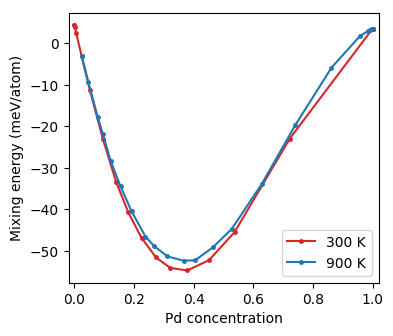
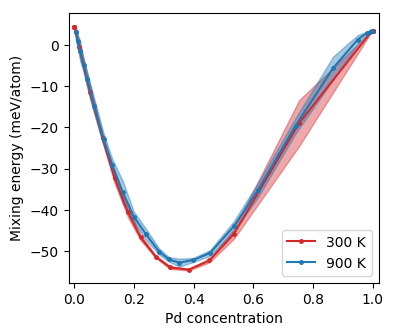
Merge branch '267-provide-data-analysis-helper-functions' of gitlab.com:materials-modeling/icet into 267-provide-data-analysis-helper-functions

diff --git a/mchammer/data_container.py b/mchammer/data_container.py
@@ -14,6 +14,7 @@ from collections import OrderedDict
 from datetime import datetime
 from typing import BinaryIO, Dict, List, TextIO, Tuple, Union
 from icet import __version__ as icet_version
+from .data_analysis import analyze_data
 from .observers.base_observer import BaseObserver
 
 
@@ -329,6 +330,55 @@ class DataContainer:
                                  ' in data container'.format(tag))
             return data[tag].count()
 
+    def analyze_data(self, tag: str, start: int = None,
+                     stop: int = None, max_lag: int = None) -> dict:
+        """
+        Returns detailed analysis of a scalar observerable.
+
+        Parameters
+        ----------
+        tag
+            tag of field over which to average
+        start
+            minimum value of trial step to consider; by default the
+            smallest value in the mctrial column will be used.
+        stop
+            maximum value of trial step to consider; by default the
+            largest value in the mctrial column will be used.
+        max_lag
+            maximum lag between two points in data series, by default the
+            largest length of the data series will be used.
+            Used for computing autocorrelation
+        Raises
+        ------
+        ValueError
+            if observable is requested that is not in data container
+        ValueError
+            if observable is not scalar
+        ValueError
+            if observations is not evenly spaced
+
+        Returns
+        -------
+        dict
+            calculated properties of the data including mean,
+            standard_deviation, correlation_length and error_estimate
+            (95% confidence)
+        """
+        if tag in ['trajectory', 'occupations']:
+            raise ValueError('{} is not scalar'.format(tag))
+        steps, data = self.get_data('mctrial', tag, start=start, stop=stop)
+
+        # check that steps are evenly spaced
+        diff = np.diff(steps)
+        step_length = diff[0]
+        if not np.allclose(step_length, diff):
+            raise ValueError('data records must be evenly spaced.')
+
+        summary = analyze_data(data)
+        summary['correlation_length'] *= step_length  # in mc-trials
+        return summary
+
     def get_average(self, tag: str,
                     start: int = None, stop: int = None) -> float:
         """
@@ -356,35 +406,6 @@ class DataContainer:
             raise ValueError('{} is not scalar'.format(tag))
         data = self.get_data(tag, start=start, stop=stop)
         return np.mean(data)
-
-    def get_standard_deviation(self, tag: str, start: int = None,
-                               stop: int = None) -> float:
-        """
-        Returns standard deviation of a scalar observable, calculated using
-        numpy.
-
-        Parameters
-        ----------
-        tag
-            tag of field over which to average
-        start
-            minimum value of trial step to consider; by default the
-            smallest value in the mctrial column will be used.
-        stop
-            maximum value of trial step to consider; by default the
-            largest value in the mctrial column will be used.
-
-        Raises
-        ------
-        ValueError
-            if observable is requested that is not in data container
-        ValueError
-            if observable is not scalar
-        """
-        if tag in ['trajectory', 'occupations']:
-            raise ValueError('{} is not scalar'.format(tag))
-        data = self.get_data(tag, start=start, stop=stop)
-        return np.std(data)
 
     def _get_trajectory(self, *tags, start: int = None, stop: int = None,
                         interval: int = 1) \

diff --git a/mchammer/data_analysis.py b/mchammer/data_analysis.py
@@ -1,0 +1,117 @@
+import pandas as pd
+import numpy as np
+import scipy
+
+
+def analyze_data(data: np.ndarray, max_lag: int = None) -> dict:
+    """ Carries out an extensive analysis of the data series.
+
+    Parameters
+    ----------
+    data
+        data series to compute autocorrelation function for
+    max_lag
+        maximum lag between two data points, used for computing autocorrelation
+
+    Returns
+    -------
+    dict
+        calculated properties of the data including, mean, standard deviation,
+        correlation length and a 95% error estimate.
+    """
+    acf = get_autocorrelation_function(data, max_lag)
+    correlation_length = _estimate_correlation_length_from_acf(acf)
+    error_estimate = _estimate_error(data, correlation_length, confidence=0.95)
+    summary = dict(mean=data.mean(),
+                   std=data.std(),
+                   correlation_length=correlation_length,
+                   error_estimate=error_estimate)
+    return summary
+
+
+def get_autocorrelation_function(data: np.ndarray,
+                                 max_lag: int = None) -> np.ndarray:
+    """ Returns autocorrelation function.
+
+    The autocorrelation function is computed using Pandas.Series.autocorr
+
+    Parameters
+    ----------
+    data
+        data series to compute autocorrelation function for
+    max_lag
+        maximum lag between two data points
+
+    Returns
+    -------
+        calculated autocorrelation function
+    """
+    if max_lag is None:
+        max_lag = len(data) - 1
+    if 1 > max_lag >= len(data):
+        raise ValueError('max_lag should be between 1 and len(data)-1.')
+    series = pd.Series(data)
+    acf = [series.autocorr(lag) for lag in range(0, max_lag)]
+    return np.array(acf)
+
+
+def get_correlation_length(data: np.ndarray) -> int:
+    """ Returns estimate of the correlation length of data.
+
+    The correlation length is taken as the first point where the
+    autocorrelation functions is less than exp(-2).
+
+    If correlation function never goes below exp(-2) then np.nan is returned
+
+    Parameters
+    ----------
+    data
+        data series to compute autocorrelation function for
+
+    Returns
+    -------
+        correlation length
+    """
+
+    acf = get_autocorrelation_function(data)
+    correlation_length = _estimate_correlation_length_from_acf(acf)
+    return correlation_length
+
+
+def get_error_estimate(data: np.ndarray, confidence: float = 0.95) -> float:
+    """ Returns estimate of standard error with confidence interval.
+
+    error = t_factor * std(data) / sqrt(Ns)
+    where t_factor is the factor corresponding to the confidence interval
+    Ns is the number of independent measurements (with correlation taken
+    into account)
+
+    Parameters
+    ----------
+    data
+        data series to to estimate error for
+
+    Returns
+    -------
+        error estimate
+    """
+    correlation_length = get_correlation_length(data)
+    error_estimate = _estimate_error(data, correlation_length, confidence)
+    return error_estimate
+
+
+def _estimate_correlation_length_from_acf(acf: np.ndarray) -> int:
+    """ Estimate correlation length from acf """
+    lengths = np.where(acf < np.exp(-2))[0]  # ACF < exp(-2)
+    if len(lengths) == 0:
+        return np.nan
+    else:
+        return lengths[0]
+
+
+def _estimate_error(data: np.ndarray, correlation_length: int,
+                    confidence: float) -> float:
+    """ Estimate error using correlation length"""
+    t_factor = scipy.stats.t.ppf((1 + confidence) / 2, len(data)-1)
+    error = t_factor * np.std(data) / np.sqrt(len(data) / correlation_length)
+    return error

diff --git a/tests/unittest/test_mchammer/test_data_container.py b/tests/unittest/test_mchammer/test_data_container.py
@@ -300,6 +300,28 @@ class TestDataContainer(unittest.TestCase):
         self.assertTrue('No observable named xyz'
                         in str(context.exception))
 
+    def test_analyze_data(self):
+        """Tests analyze_data functionality."""
+
+        # set up a random list of values with a normal distribution
+        n_iter, mu, sigma = 100, 1.0, 0.1
+        np.random.seed(12)
+        for mctrial in range(n_iter):
+            row = {'obs1': np.random.normal(mu, sigma), 'obs2': 4.0}
+            self.dc.append(mctrial, record=row)
+
+        # check obs1
+        summary1 = self.dc.analyze_data('obs1')
+        mean1 = self.dc.get_data('obs1').mean()
+        std1 = self.dc.get_data('obs1').std()
+        self.assertEqual(summary1['mean'], mean1)
+        self.assertEqual(summary1['std'], std1)
+        self.assertEqual(summary1['correlation_length'], 1)
+
+        # check obs2
+        summary2 = self.dc.analyze_data('obs2')
+        self.assertTrue(np.isnan(summary2['correlation_length']))
+
     def test_get_average_and_standard_deviation(self):
         """Tests get average functionality."""
         # set up a random list of values with a normal distribution
@@ -313,25 +335,17 @@ class TestDataContainer(unittest.TestCase):
 
         # get average over all mctrials
         mean = self.dc.get_average('obs1')
-        std = self.dc.get_standard_deviation('obs1')
         self.assertAlmostEqual(mean, 0.9855693, places=7)
-        self.assertAlmostEqual(std, 0.1045950, places=7)
 
         # get average over slice of data
         mean = self.dc.get_average('obs1', start=60)
-        std = self.dc.get_standard_deviation('obs1', start=60)
         self.assertAlmostEqual(mean, 0.9851106, places=7)
-        self.assertAlmostEqual(std, 0.0981344, places=7)
 
         mean = self.dc.get_average('obs1', stop=60)
-        std = self.dc.get_standard_deviation('obs1', stop=60)
         self.assertAlmostEqual(mean, 0.9876534, places=7)
-        self.assertAlmostEqual(std, 0.1086700, places=7)
 
         mean = self.dc.get_average('obs1', start=40, stop=60)
-        std = self.dc.get_standard_deviation('obs1', start=40, stop=60)
         self.assertAlmostEqual(mean, 1.0137074, places=7)
-        self.assertAlmostEqual(std, 0.1124826, places=7)
 
         # test fails for non-existing data
         with self.assertRaises(ValueError) as context:

diff --git a/tutorial/basic/6_collect_monte_carlo_data.py b/tutorial/basic/6_collect_monte_carlo_data.py
@@ -12,10 +12,15 @@ for ensemble in ['sgc', 'vcsgc']:
         n_atoms = data_row['n_atoms']
 
         equilibration = 5 * n_atoms
-        data_row['Pd_concentration'] = \
-            dc.get_average('Pd_count', start=equilibration) / n_atoms
-        data_row['mixing_energy'] = \
-            dc.get_average('potential', start=equilibration) / n_atoms
+
+        stats = dc.analyze_data('Pd_count', start=equilibration)
+        data_row['Pd_concentration'] = stats['mean'] / n_atoms
+        data_row['Pd_concentration_error'] = stats['error_estimate'] / n_atoms
+
+        stats = dc.analyze_data('potential', start=equilibration)
+        data_row['mixing_energy'] = stats['mean'] / n_atoms
+        data_row['mixing_energy_error'] = stats['error_estimate'] / n_atoms
+
         data_row['acceptance_ratio'] = \
             dc.get_average('acceptance_ratio', start=equilibration)
         if ensemble == 'sgc':

diff --git a/tutorial/basic/7_plot_monte_carlo_data.py b/tutorial/basic/7_plot_monte_carlo_data.py
@@ -34,9 +34,15 @@ df = dfs['sgc']
 fig, ax = plt.subplots(figsize=(4, 3.5))
 for T in sorted(df.temperature.unique()):
     df_T = df.loc[df['temperature'] == T].sort_values('Pd_concentration')
-    ax.plot(df_T['Pd_concentration'], 1e3 * df_T['mixing_energy'],
+    e_mix = 1e3 * df_T['mixing_energy']
+    e_mix_error = 1e3 * df_T['mixing_energy_error']
+    ax.plot(df_T['Pd_concentration'], e_mix,
             marker='o', markersize=2.5, label='{} K'.format(T),
             color=colors[T])
+    # Plot error estimate
+    ax.fill_between(df_T['Pd_concentration'],
+                    e_mix + e_mix_error, e_mix - e_mix_error,
+                    color=colors[T], alpha=0.4)
 ax.set_xlabel('Pd concentration')
 ax.set_ylabel('Mixing energy (meV/atom)')
 ax.set_xlim([-0.02, 1.02])

diff --git a/tutorial/basic/5a_run_monte_carlo_sgc.py b/tutorial/basic/5a_run_monte_carlo_sgc.py
@@ -22,7 +22,7 @@ except FileExistsError:
     pass
 for temperature in [900, 300]:
     # Evolve configuration through the entire composition range
-    for dmu in np.arange(-0.6, 0.51, 0.05):
+    for dmu in np.arange(-0.7, 0.51, 0.05):
         # Initialize MC ensemble
         mc = SemiGrandCanonicalEnsemble(
             atoms=atoms,
